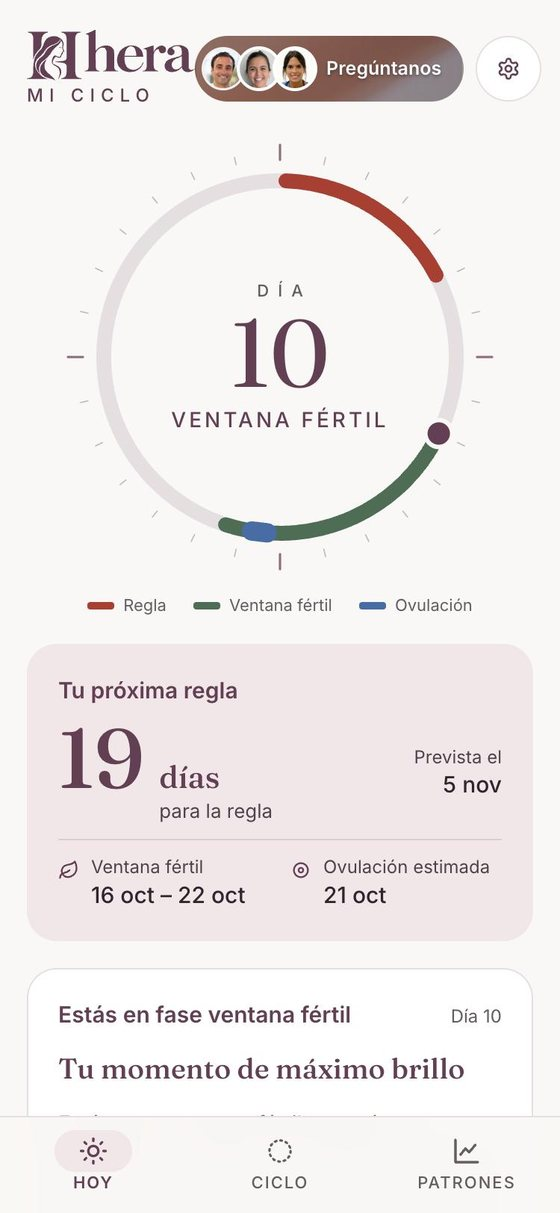
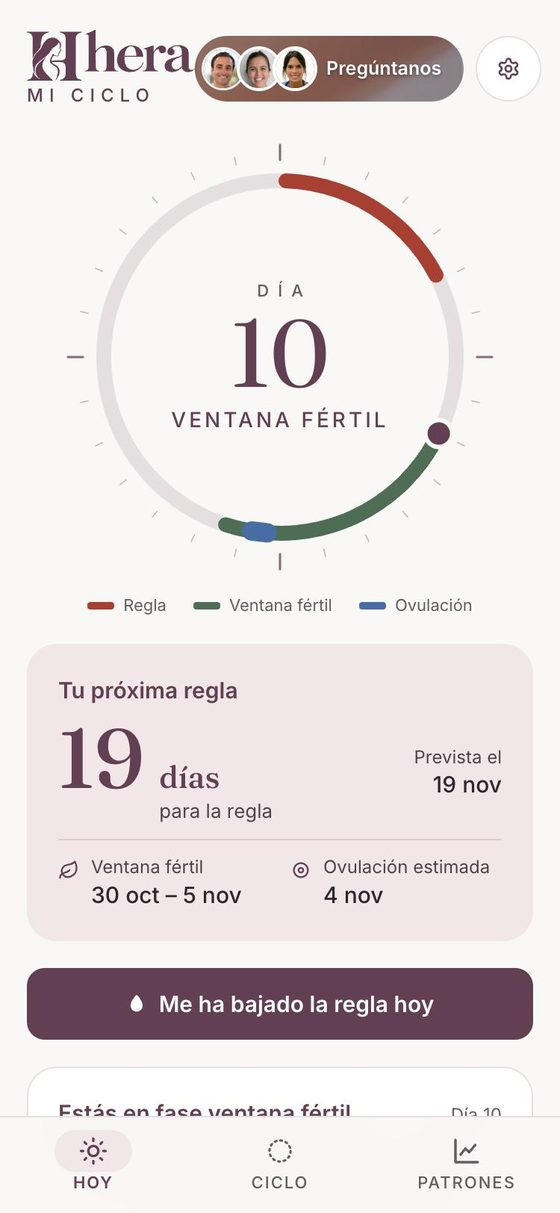
Portada con menopausia: titular «Tus dudas de salud», cuarta etapa, capturas nuevas; Hera · Salud de la mujer en Google, compartir y app

diff --git a/index.html b/index.html
@@ -11,8 +11,8 @@
     if ((navigator.standalone || matchMedia('(display-mode: standalone)').matches) && !sessionStorage.getItem('hera-web') && !document.referrer.startsWith(location.origin)) location.replace('app/');
   } catch (e) {}
 </script>
-<title>Hera · Tus dudas del embarazo, resueltas por profesionales</title>
-<meta name="description" content="Cada semana, lo que te toca saber del embarazo y de tu bebé. Y cuando algo te preocupe, pregúntaselo a tu ginecólogo, tu matrona o tu pediatra. Tus dos primeras consultas, gratis.">
+<title>Hera · Salud de la mujer, con profesionales</title>
+<meta name="description" content="Regla, embarazo, posparto, tu bebé y menopausia. Pregunta a tu ginecólogo, tu matrona o tu pediatra. Tus dos primeras consultas, gratis.">
 <meta name="theme-color" content="#FAF8F5">
 <link rel="icon" type="image/svg+xml" href="app/brand/favicon.svg">
 <link rel="apple-touch-icon" href="app/icons/apple-touch-icon.png">
@@ -20,7 +20,7 @@
 <link rel="preload" href="app/fonts/inter.woff2" as="font" type="font/woff2" crossorigin>
 <meta property="og:type" content="website">
 <meta property="og:title" content="Hera · Salud de la mujer">
-<meta property="og:description" content="Regla, embarazo, posparto y tu bebé. Ginecólogo, matrona y pediatra te responden por escrito en menos de 48 h.">
+<meta property="og:description" content="Regla, embarazo, posparto, tu bebé y menopausia. Ginecólogo, matrona y pediatra te responden por escrito en menos de 48 h.">
 <meta property="og:image" content="https://hera-gine.com/portada/compartir.jpg">
 <meta property="og:image:width" content="1200">
 <meta property="og:image:height" content="630">
@@ -191,9 +191,10 @@ section { padding: 64px 0; }
 
 /* Etapas */
 .stages { display: grid; gap: 16px; margin-top: 30px; }
-@media (min-width: 800px) { .stages { grid-template-columns: repeat(3, 1fr); } }
+@media (min-width: 640px) { .stages { grid-template-columns: repeat(2, 1fr); } }
+@media (min-width: 1040px) { .stages { grid-template-columns: repeat(4, 1fr); } }
 .stage { border-radius: 12px; padding: 24px 22px 0; overflow: hidden; display: flex; flex-direction: column; }
-.stage.sage { background: var(--sage); } .stage.lav { background: var(--lav); } .stage.rose { background: var(--rose); }
+.stage.sage { background: var(--sage); } .stage.lav { background: var(--lav); } .stage.rose { background: var(--rose); } .stage.sand { background: #EFE6D8; }
 .tile { width: 104px; height: 72px; border-radius: 6px; background: var(--plum) center / cover; display: grid; place-items: center; margin-bottom: 18px; box-shadow: inset 0 0 0 72px rgba(42,24,35,.18); }
 .tile svg { filter: drop-shadow(0 1px 3px rgba(42,24,35,.6)); }
 .stage p { margin: 0 0 18px; color: var(--text); font-size: 15px; }
@@ -326,8 +327,8 @@ footer { border-top: 1px solid var(--line); padding: 32px 0 40px; }
 <div class="wrap">
   <div class="hero">
     <div>
-      <p class="eyebrow">Regla · Embarazo · Bebé</p>
-      <h1>Tus dudas del embarazo, <em>resueltas por profesionales</em></h1>
+      <p class="eyebrow">Regla · Embarazo · Bebé · Menopausia</p>
+      <h1>Tus dudas de salud, <em>resueltas por profesionales</em></h1>
       <p class="lead">Ginecólogo, matrona y pediatra con nombre y apellido. Leen tu caso y te responden por escrito en menos de 48 h.</p>
 
       <div class="askwrap">
@@ -403,7 +404,7 @@ footer { border-top: 1px solid var(--line); padding: 32px 0 40px; }
   <div class="wrap">
     <p class="eyebrow">Para cada etapa</p>
     <h2>Lo que necesitas saber, cuando lo necesitas</h2>
-    <p class="sub">Hera se adapta a tu momento: tu ciclo, tu embarazo o el primer año con tu bebé. Cada etapa con su color, como en la app.</p>
+    <p class="sub">Hera se adapta a tu momento: tu ciclo, tu embarazo, el primer año con tu bebé o la menopausia. Cada etapa con su color, como en la app.</p>
     <div class="stages">
       <div class="stage rose">
         <div class="tile" style="background-image:url('portada/fluido/seda-rosa.webp')" aria-hidden="true"><svg width="30" height="30" viewBox="0 0 24 24" fill="none" stroke="#fff" stroke-width="1.6" stroke-linecap="round" stroke-linejoin="round"><path d="M12 3.5s-6 6.4-6 10.8a6 6 0 0 0 12 0C18 9.9 12 3.5 12 3.5Z"/></svg></div>
@@ -423,6 +424,12 @@ footer { border-top: 1px solid var(--line); padding: 32px 0 40px; }
         <p>Tu recuperación, la lactancia y el suelo pélvico. Y el primer año de tu bebé: lo normal a su edad, su peso, el sueño, las vacunas y cuándo ir a urgencias.</p>
         <div class="shot"><img src="portada/etapa-posparto.jpg" width="560" height="1213" loading="lazy" alt="Hera en el posparto: 4 semanas desde el parto"></div>
       </div>
+      <div class="stage sand">
+        <div class="tile" style="background-image:url('portada/fluido/seda-melocoton.webp');background-size:300%;background-position:70% 30%" aria-hidden="true"><svg width="30" height="30" viewBox="0 0 24 24" fill="none" stroke="#fff" stroke-width="1.6" stroke-linecap="round" stroke-linejoin="round"><path d="M11 20A7 7 0 0 1 9.8 6.1C15.5 5 17 4.48 19 2c1 2 2 4.18 2 8 0 5.5-4.78 10-10 10Z"/><path d="M2 21c0-3 1.85-5.36 5.08-6C9.5 14.52 12 13 13 12"/></svg></div>
+        <h3>Menopausia</h3>
+        <p>Si se acerca o ya ha llegado: apunta sofocos, sueño y otros cambios, entiende qué es normal y pregunta a tu ginecólogo cuando algo te preocupe.</p>
+        <div class="shot"><img src="portada/etapa-menopausia.jpg" width="560" height="1213" loading="lazy" alt="Hera en la menopausia: tu momento y cómo estás hoy"></div>
+      </div>
     </div>
   </div>
 </section>
@@ -436,7 +443,7 @@ footer { border-top: 1px solid var(--line); padding: 32px 0 40px; }
       <article class="pro">
         <div class="head"><img src="portada/equipo/gonzalo.jpg?v=2" alt="Gonzalo Nozaleda" width="72" height="72" loading="lazy">
           <div><h3>Dr. Gonzalo Nozaleda</h3><p class="role">Ginecólogo</p></div></div>
-        <p>Embarazo y pruebas, medicación, anticoncepción, la regla y el ciclo, y cualquier complicación.</p>
+        <p>Embarazo y pruebas, medicación, anticoncepción, la regla y el ciclo, la menopausia y cualquier complicación.</p>
         <a class="pro-more" href="equipo.html#gonzalo">Conocer a Gonzalo →</a>
         <a class="btn btn-s" href="#ask" data-to="gineco">Pregunta a Gonzalo</a>
       </article>
@@ -520,7 +527,7 @@ footer { border-top: 1px solid var(--line); padding: 32px 0 40px; }
     <div class="price">
       <div class="plan main"><span class="k">Para empezar</span><span class="v">2 consultas gratis</span><p>A quien quieras de las tres, sin tarjeta ni registro.</p></div>
       <div class="plan"><span class="k">Consulta suelta</span><span class="v">9 €</span><p>Pagas solo cuando preguntas.</p></div>
-      <div class="plan"><span class="k">Bono de 5 consultas</span><span class="v">35 € <small>· 7 € cada una</small></span><p>Para el embarazo o los primeros meses del bebé.</p></div>
+      <div class="plan"><span class="k">Bono de 5 consultas</span><span class="v">35 € <small>· 7 € cada una</small></span><p>Para cuando necesites preguntar más de una vez.</p></div>
       <div class="plan"><span class="k">Ilimitado</span><span class="v">15 € <small>/ mes</small></span><p>Pregunta cuando lo necesites, sin permanencia. Uso razonable: hasta una consulta nueva al día.</p></div>
     </div>
   </div>

diff --git a/app/index.html b/app/index.html
@@ -3,9 +3,9 @@
 <head>
   <meta charset="UTF-8">
   <meta name="viewport" content="width=device-width, initial-scale=1, maximum-scale=1, user-scalable=no, viewport-fit=cover">
-  <title>Hera · Embarazo, posparto y bebé</title>
+  <title>Hera · Salud de la mujer</title>
   <link rel="canonical" href="https://hera-gine.com/app/">
-  <meta name="description" content="Hera: embarazo, posparto y tu bebé, acompañada por tu ginecólogo, tu matrona y tu pediatra. También para seguir tu ciclo. Tus datos se quedan en tu dispositivo.">
+  <meta name="description" content="Hera: regla, embarazo, posparto, tu bebé y menopausia, acompañada por tu ginecólogo, tu matrona y tu pediatra.">
   <meta name="theme-color" content="#FAF8F5">
   <meta name="color-scheme" content="light">
   <meta name="apple-mobile-web-app-capable" content="yes">

diff --git a/equipo.html b/equipo.html
@@ -122,7 +122,7 @@ footer { border-top: 1px solid var(--line); padding: 32px 0 40px; }
           <li>Actividad en el Hospital Gregorio Marañón y en consulta privada</li>
         </ul>
         <h3>En Hera te puede ayudar con</h3>
-        <ul class="tags"><li>Embarazo y pruebas</li><li>Medicación</li><li>Anticoncepción</li><li>Regla y ciclo</li><li>Complicaciones</li></ul>
+        <ul class="tags"><li>Embarazo y pruebas</li><li>Medicación</li><li>Anticoncepción</li><li>Regla y ciclo</li><li>Menopausia</li><li>Complicaciones</li></ul>
         <div class="cta"><a class="btn btn-p" href="./#preguntar-gineco">Pregunta a Gonzalo</a></div>
       </div>
     </div>

diff --git a/app/sw.js b/app/sw.js
@@ -2,7 +2,7 @@
 // Service worker de Hera web: permite abrir la app sin conexión.
 // Estrategia "red primero": siempre intenta la versión más reciente y usa la caché si no hay red.
 
-const CACHE = 'vera-web-v94';
+const CACHE = 'vera-web-v95';
 const SHELL = [
   './',
   'index.html',
